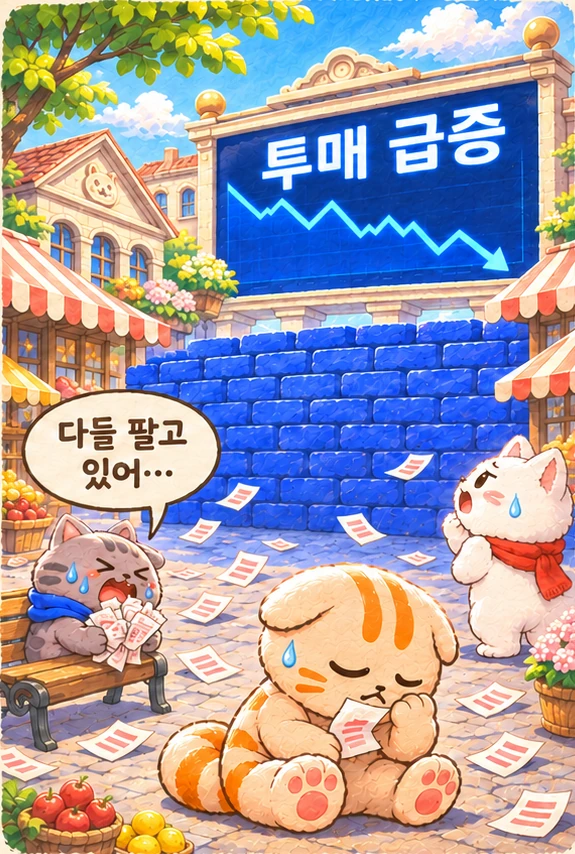
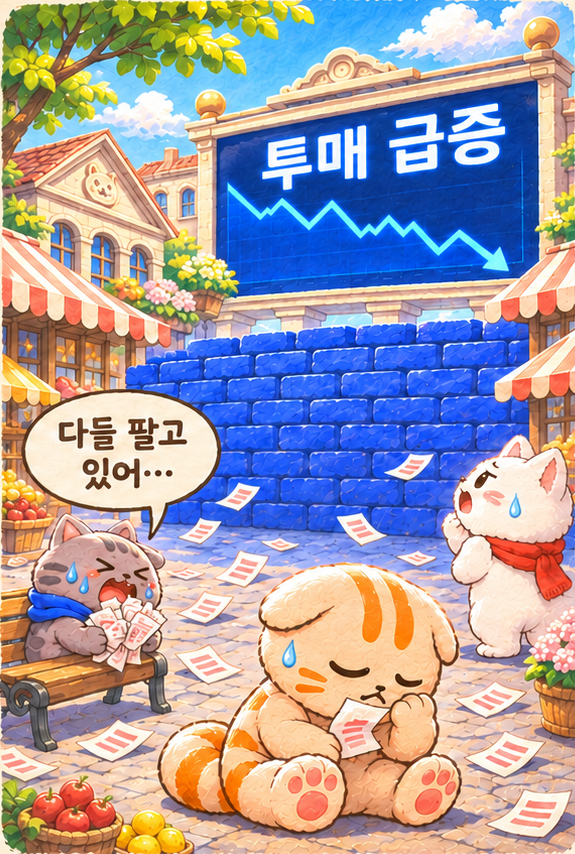
프롤로그 원화 손실을 없애고 모바일 화면 배치 개선

diff --git a/app/src/app/opening-prologue.css b/app/src/app/opening-prologue.css
@@ -1,35 +1,73 @@
 .opening-prologue {
   position: fixed;
   inset: 0;
+  isolation: isolate;
+  overflow: hidden;
   display: grid;
-  justify-items: center;
-  background: #fff3d9;
+  place-items: center;
+  background: #162c48;
   padding: env(safe-area-inset-top) env(safe-area-inset-right) env(safe-area-inset-bottom)
     env(safe-area-inset-left);
 }
+.opening-prologue-backdrop {
+  position: absolute;
+  inset: -40px;
+  z-index: -1;
+  background: center / cover;
+  filter: blur(26px) brightness(0.55);
+  pointer-events: none;
+}
 .opening-prologue-page {
-  display: grid;
-  grid-template-rows: minmax(0, 1fr) auto;
-  width: min(100%, 640px);
+  display: flex;
+  flex-direction: column;
+  align-items: center;
+  justify-content: center;
+  width: 100%;
+  height: 100%;
   min-height: 0;
-  padding: 8px 12px;
-  color: #50341e;
+  padding: 0;
   font-family: var(--font-game);
 }
 .opening-prologue-page img {
-  width: 100%;
-  height: 100%;
-  object-fit: contain;
+  display: block;
+  width: auto;
+  height: auto;
+  max-width: min(100%, 760px);
+  max-height: calc(100% - 64px);
+  border-radius: 4px;
+  box-shadow: 0 4px 18px #14243e55;
 }
 .opening-prologue-nav {
+  height: 64px;
+  flex: none;
+  width: min(100%, 760px);
+  padding: 0 16px;
   display: flex;
-  justify-content: space-between;
   align-items: center;
-  padding: 8px 4px;
+  justify-content: space-between;
+}
+.opening-prologue-progress {
+  display: flex;
+  gap: 5px;
+  padding: 6px 9px;
+  border-radius: 12px;
+  background: #172a42cc;
+}
+.opening-prologue-progress i {
+  width: 6px;
+  height: 6px;
+  border-radius: 4px;
+  background: #bdd1df;
+}
+.opening-prologue-progress i[data-current="true"] {
+  width: 16px;
+  background: #ffd467;
 }
 .opening-prologue-nav strong {
   padding: 8px 20px;
   border: 2px solid #805223;
   border-radius: 12px;
   background: #ffd467;
+  color: #50341e;
+  box-shadow: 0 2px 0 #624524;
 }

diff --git a/app/src/app/OpeningPrologue.tsx b/app/src/app/OpeningPrologue.tsx
@@ -43,11 +43,21 @@ export function OpeningPrologue({
   }
   return (
     <main className="opening-prologue" aria-label="첫 매도벽 프롤로그">
+      <span
+        aria-hidden="true"
+        className="opening-prologue-backdrop"
+        style={{ backgroundImage: `url(${panel.image})` }}
+      />
       <button type="button" onClick={next} className="opening-prologue-page">
         <img src={panel.image} alt={panel.alt} />
         <span className="opening-prologue-nav">
-          <span>
-            {page + 1} / {panels.length}
+          <span className="opening-prologue-progress">
+            <span className="sr-only">
+              {panels.length}컷 중 {page + 1}번째
+            </span>
+            {panels.map((item, index) => (
+              <i key={item.image} data-current={index === page} />
+            ))}
           </span>
           <strong>{page === panels.length - 1 ? '첫 매도벽 돌파' : '다음 컷'} ▸</strong>
         </span>
